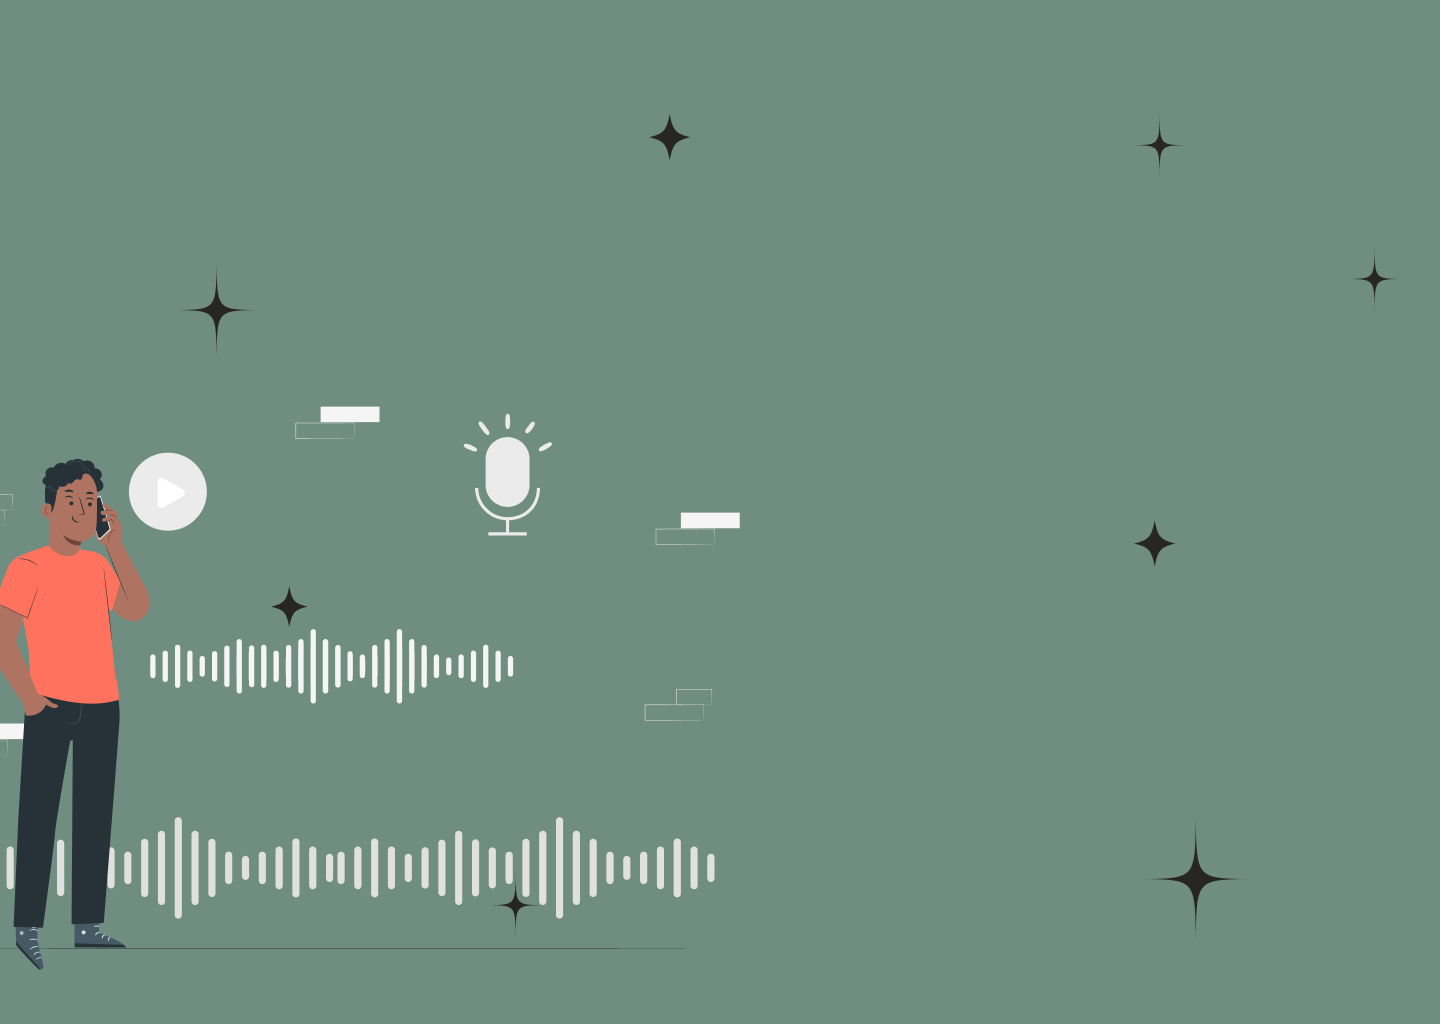
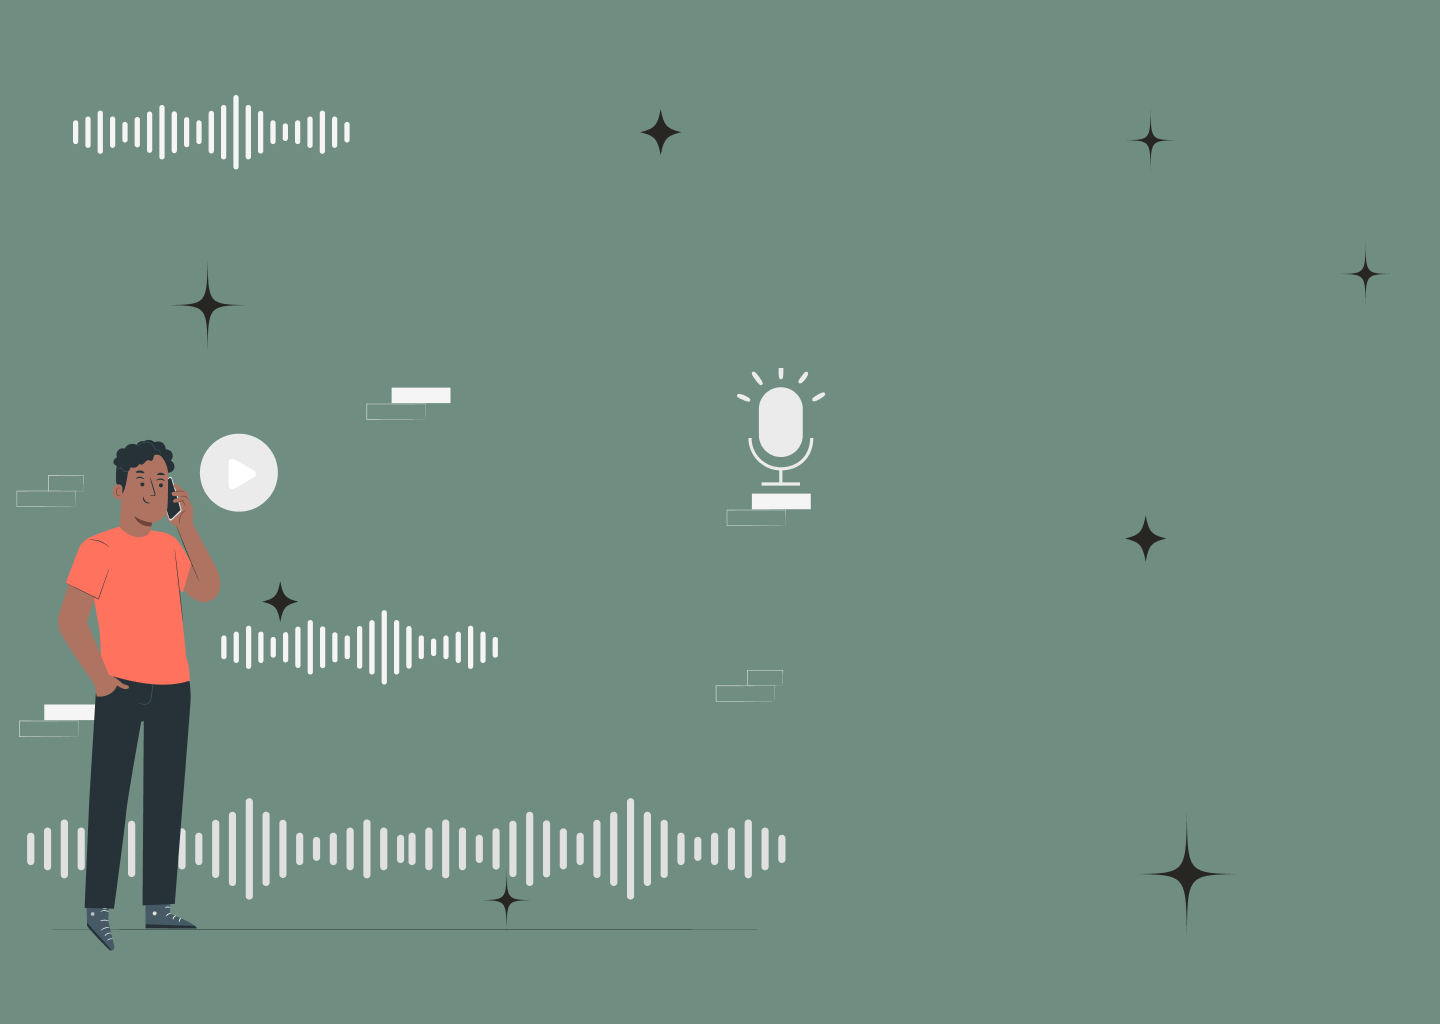
new pages

diff --git a/stylepdf.css b/stylepdf.css
@@ -5,7 +5,7 @@ body {
 }
 
 body {
-    background-image: url(media2/bg_results.png);
+    background-image: url(media3/Desktop\ -\ 1\ \(5\).png);
     background-repeat:no-repeat;
     background-position:center;
     background-attachment:fixed;
@@ -16,18 +16,7 @@ body {
     display:flex;
 }
 
-.voice-record{
-    height:200px;
-    width:200px;
-    border-radius:50%;
-    margin-top: 20vh;
-    margin-left:4rem;
-}
 
-.voice-record img{
-    height:5rem;
-   
-}
 
 .back{
     height:50px;
@@ -43,11 +32,11 @@ body {
 
 
 
-.speech{
+.summary{
     height:40rem;
     width:25rem;
-    margin-top: 1rem;
-    margin-left:23vh;
+    margin-top: 2rem;
+    margin-left:5vh;
     background-color: #D6D7E0;
     border-radius: 1rem;
     text-align:center;
@@ -57,14 +46,14 @@ body {
 }
 
 
-.speech h2{
+.summary h2{
     font-family:'Segoe UI', Tahoma, Geneva, Verdana, sans-serif;
     color:#001427;
     font-size:2rem;
 }
 
 
-.speech p{
+.summary p{
     font-family:Georgia, 'Times New Roman', Times, serif;
     color:#001427;
     font-size: larger;
@@ -72,11 +61,11 @@ body {
     padding-left:3rem;
 }
 
-.to-list{
+.ask{
     height:40rem;
     width:25rem;
-    margin-top: 1rem;
-    margin-left:10vh;
+    margin-top: 2rem;
+    margin-left:15vh;
     background-color: #D6D7E0;
     border-radius: 1rem;
     text-align:center;
@@ -86,14 +75,14 @@ body {
 }
 
 
-.to-list h2{
+.ask h2{
     font-family:'Segoe UI', Tahoma, Geneva, Verdana, sans-serif;
     color:#001427;
     font-size:2rem;
 }
 
 
-.to-list p{
+.ask p{
     font-family:Georgia, 'Times New Roman', Times, serif;
     color:#001427;
     font-size: larger;
@@ -109,5 +98,32 @@ body {
    border-radius: 15px;
    color: #D6D7E0;
    font-family:'Lucida Sans', 'Lucida Sans Regular', 'Lucida Grande', 'Lucida Sans Unicode', Geneva, Verdana, sans-serif;
+}
+
+.upload {
+    display:block;  
+}
+
+.choose{
+    margin-top: 18vh;
+    margin-left:9rem;
+}
+
+.submit{
+    margin-top: 40vh;
+    margin-left:13rem;
+    border:none;
+    background:#001427;
+    padding:10px 20px;
+    border-radius: 10px;
+    color:#D6D7E0
+}
+
+input[type = file]::file-selector-button {
+    border:none;
+    background:#001427;
+    padding:10px 20px;
+    border-radius: 10px;
+    color:#D6D7E0
 }
 

diff --git a/pdfres.html b/pdfres.html
@@ -4,7 +4,7 @@
     <meta charset="UTF-8">
     <meta name="viewport" content="width=device-width, initial-scale=1.0">
     <title></title>
-    <link rel="stylesheet" href="styleexm.css">
+    <link rel="stylesheet" href="stylepdf.css">
 </head>
 <body>
     <div class="main-div">
@@ -13,17 +13,22 @@
         </button>
 
        
-        <div class="speech">
-            <h2>So here's your plan<br> for today!</h2>
+        <div class="summary">
+            <h2>Here's your pdf<br> Summary!</h2>
             <p>dththryjtyjtyjtd</p>
         </div>
 
-        <button class="voice-record">
-            <img src="media2/mic.png">
-        </button>
+        <div class="upload">
+            <form>
+                
+                <input type="file" class="choose"><br>
+
+                <input type="submit" class="submit">
+            </form>
+        </div>
         
-        <div class="to-list">
-            <h2>Your TO-DO List!<br>Work with Joy!</h2>
+        <div class="ask">
+            <h2>Ask Away!</h2>
             <p>dththryjtyjtyjtd</p>
             <button class="todo-ist">
                 <h4>TO-DO-IST</h4>
